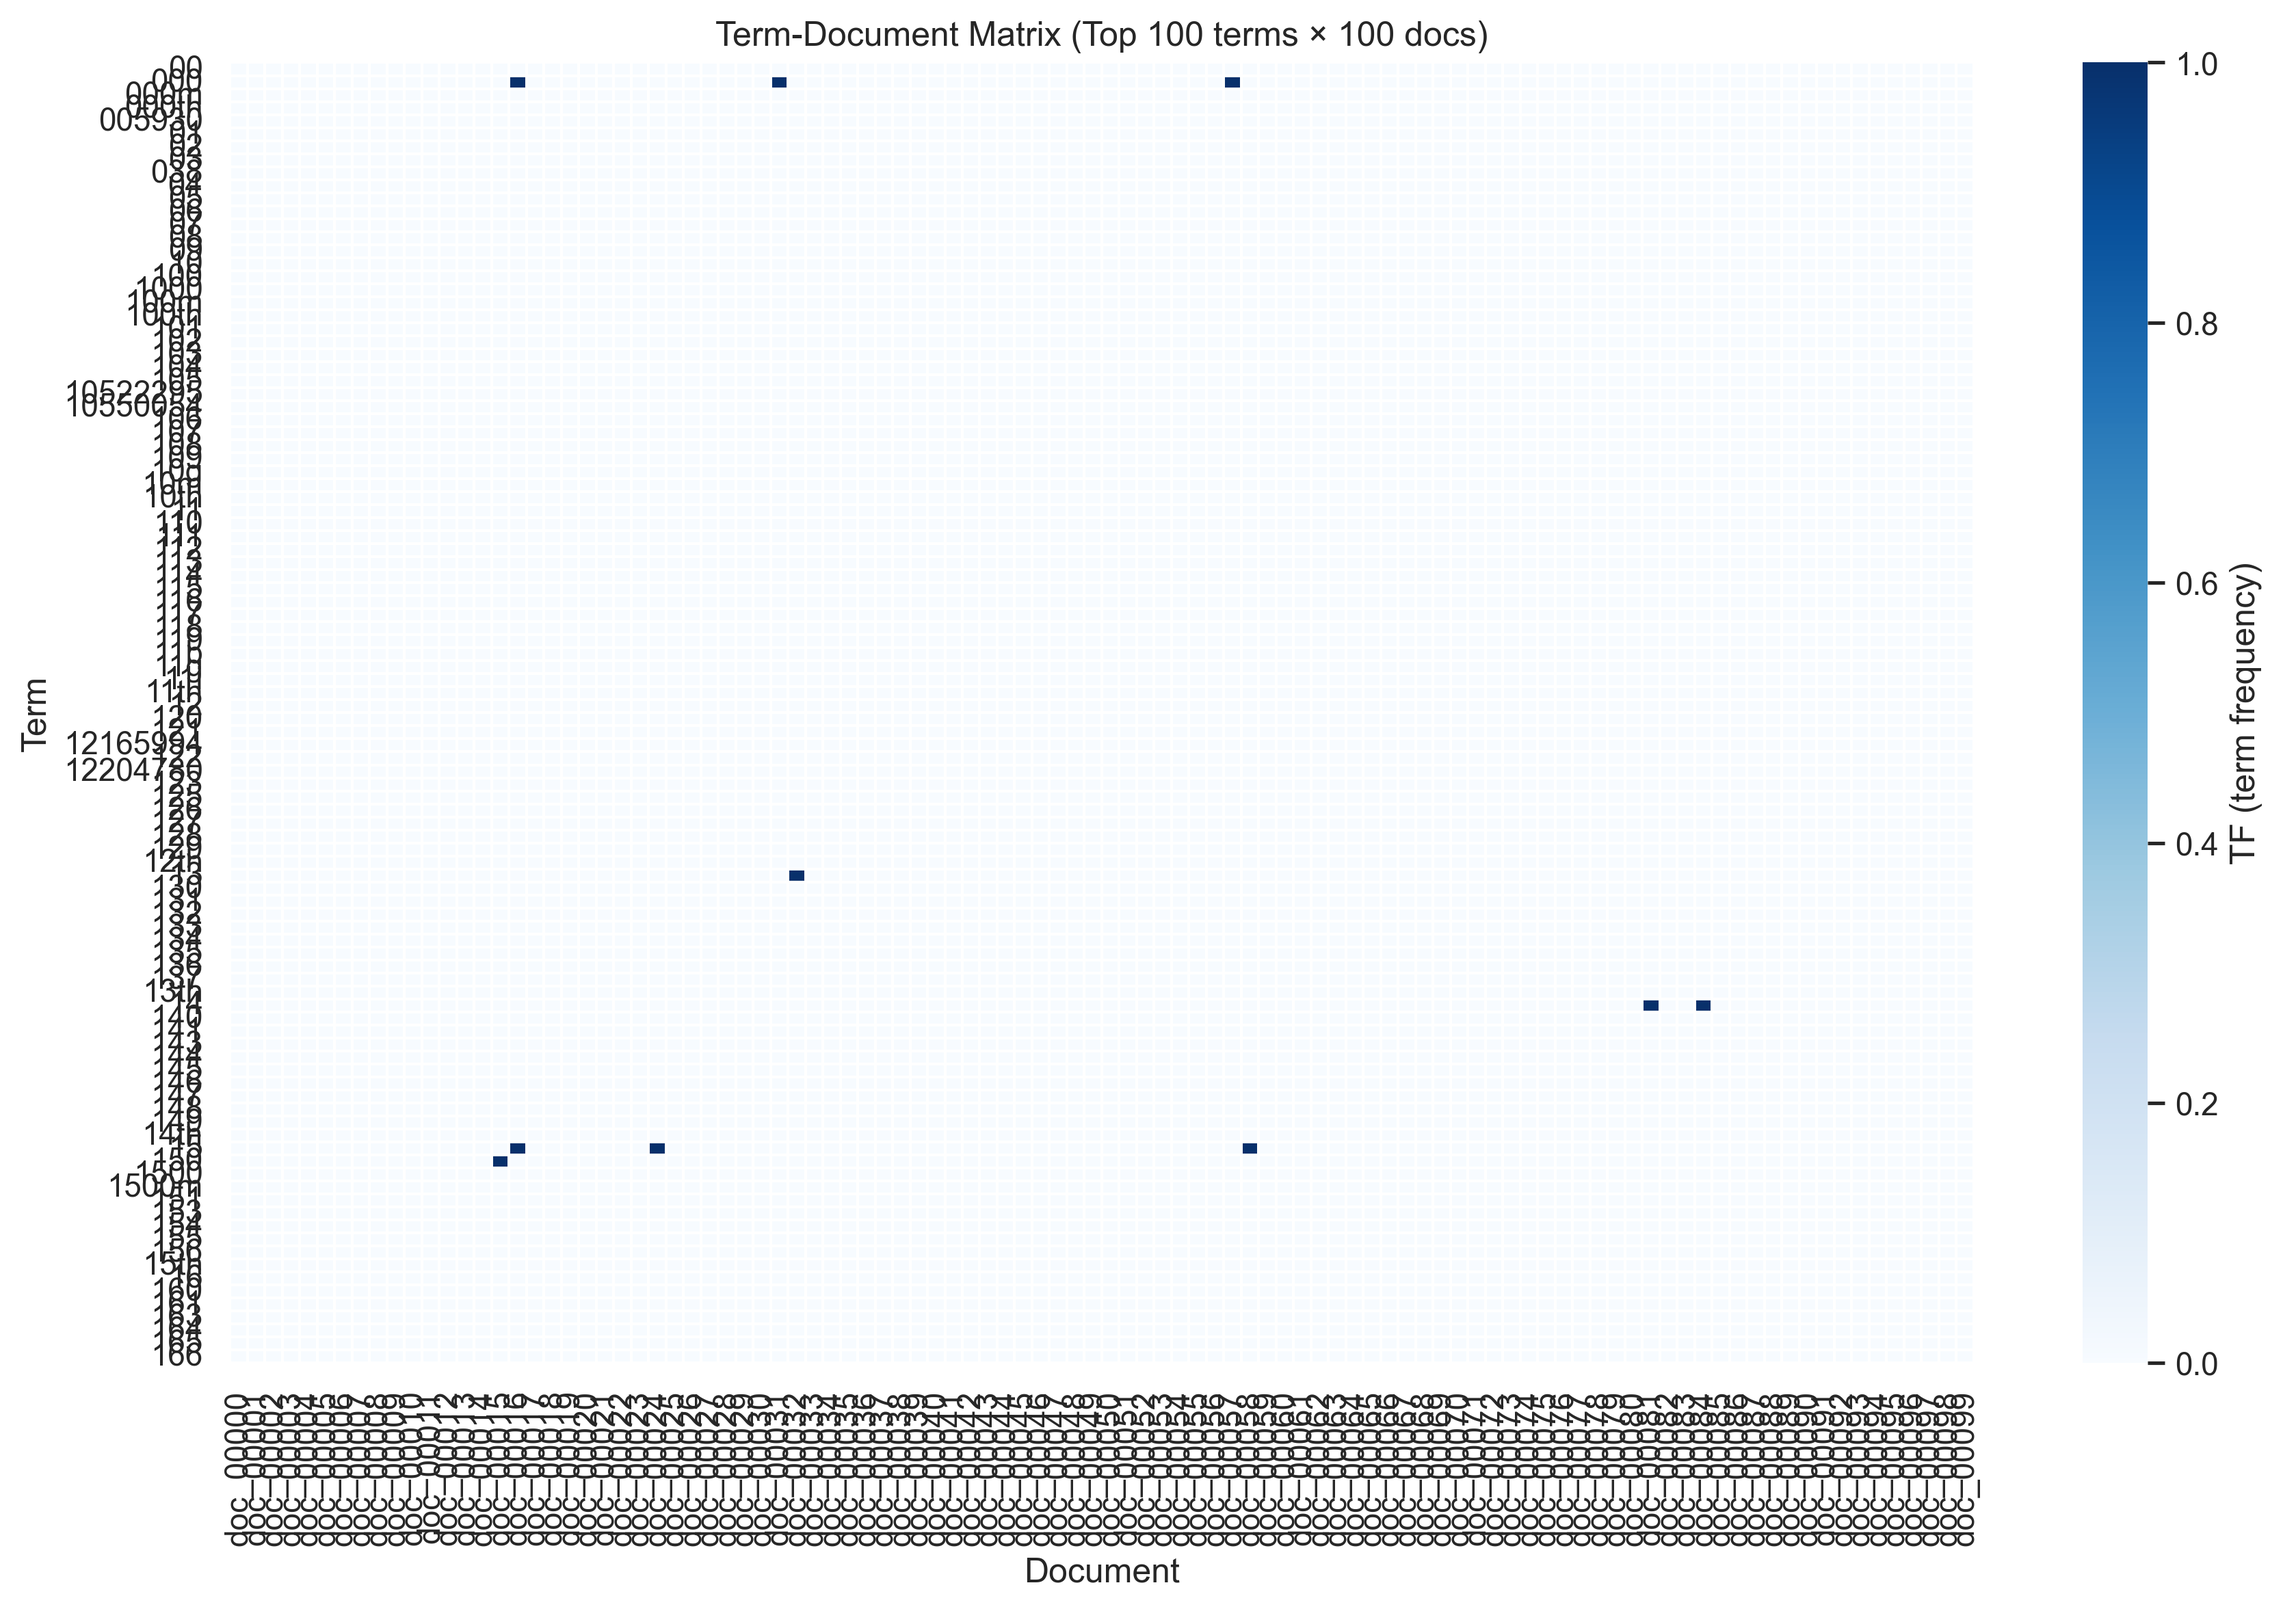
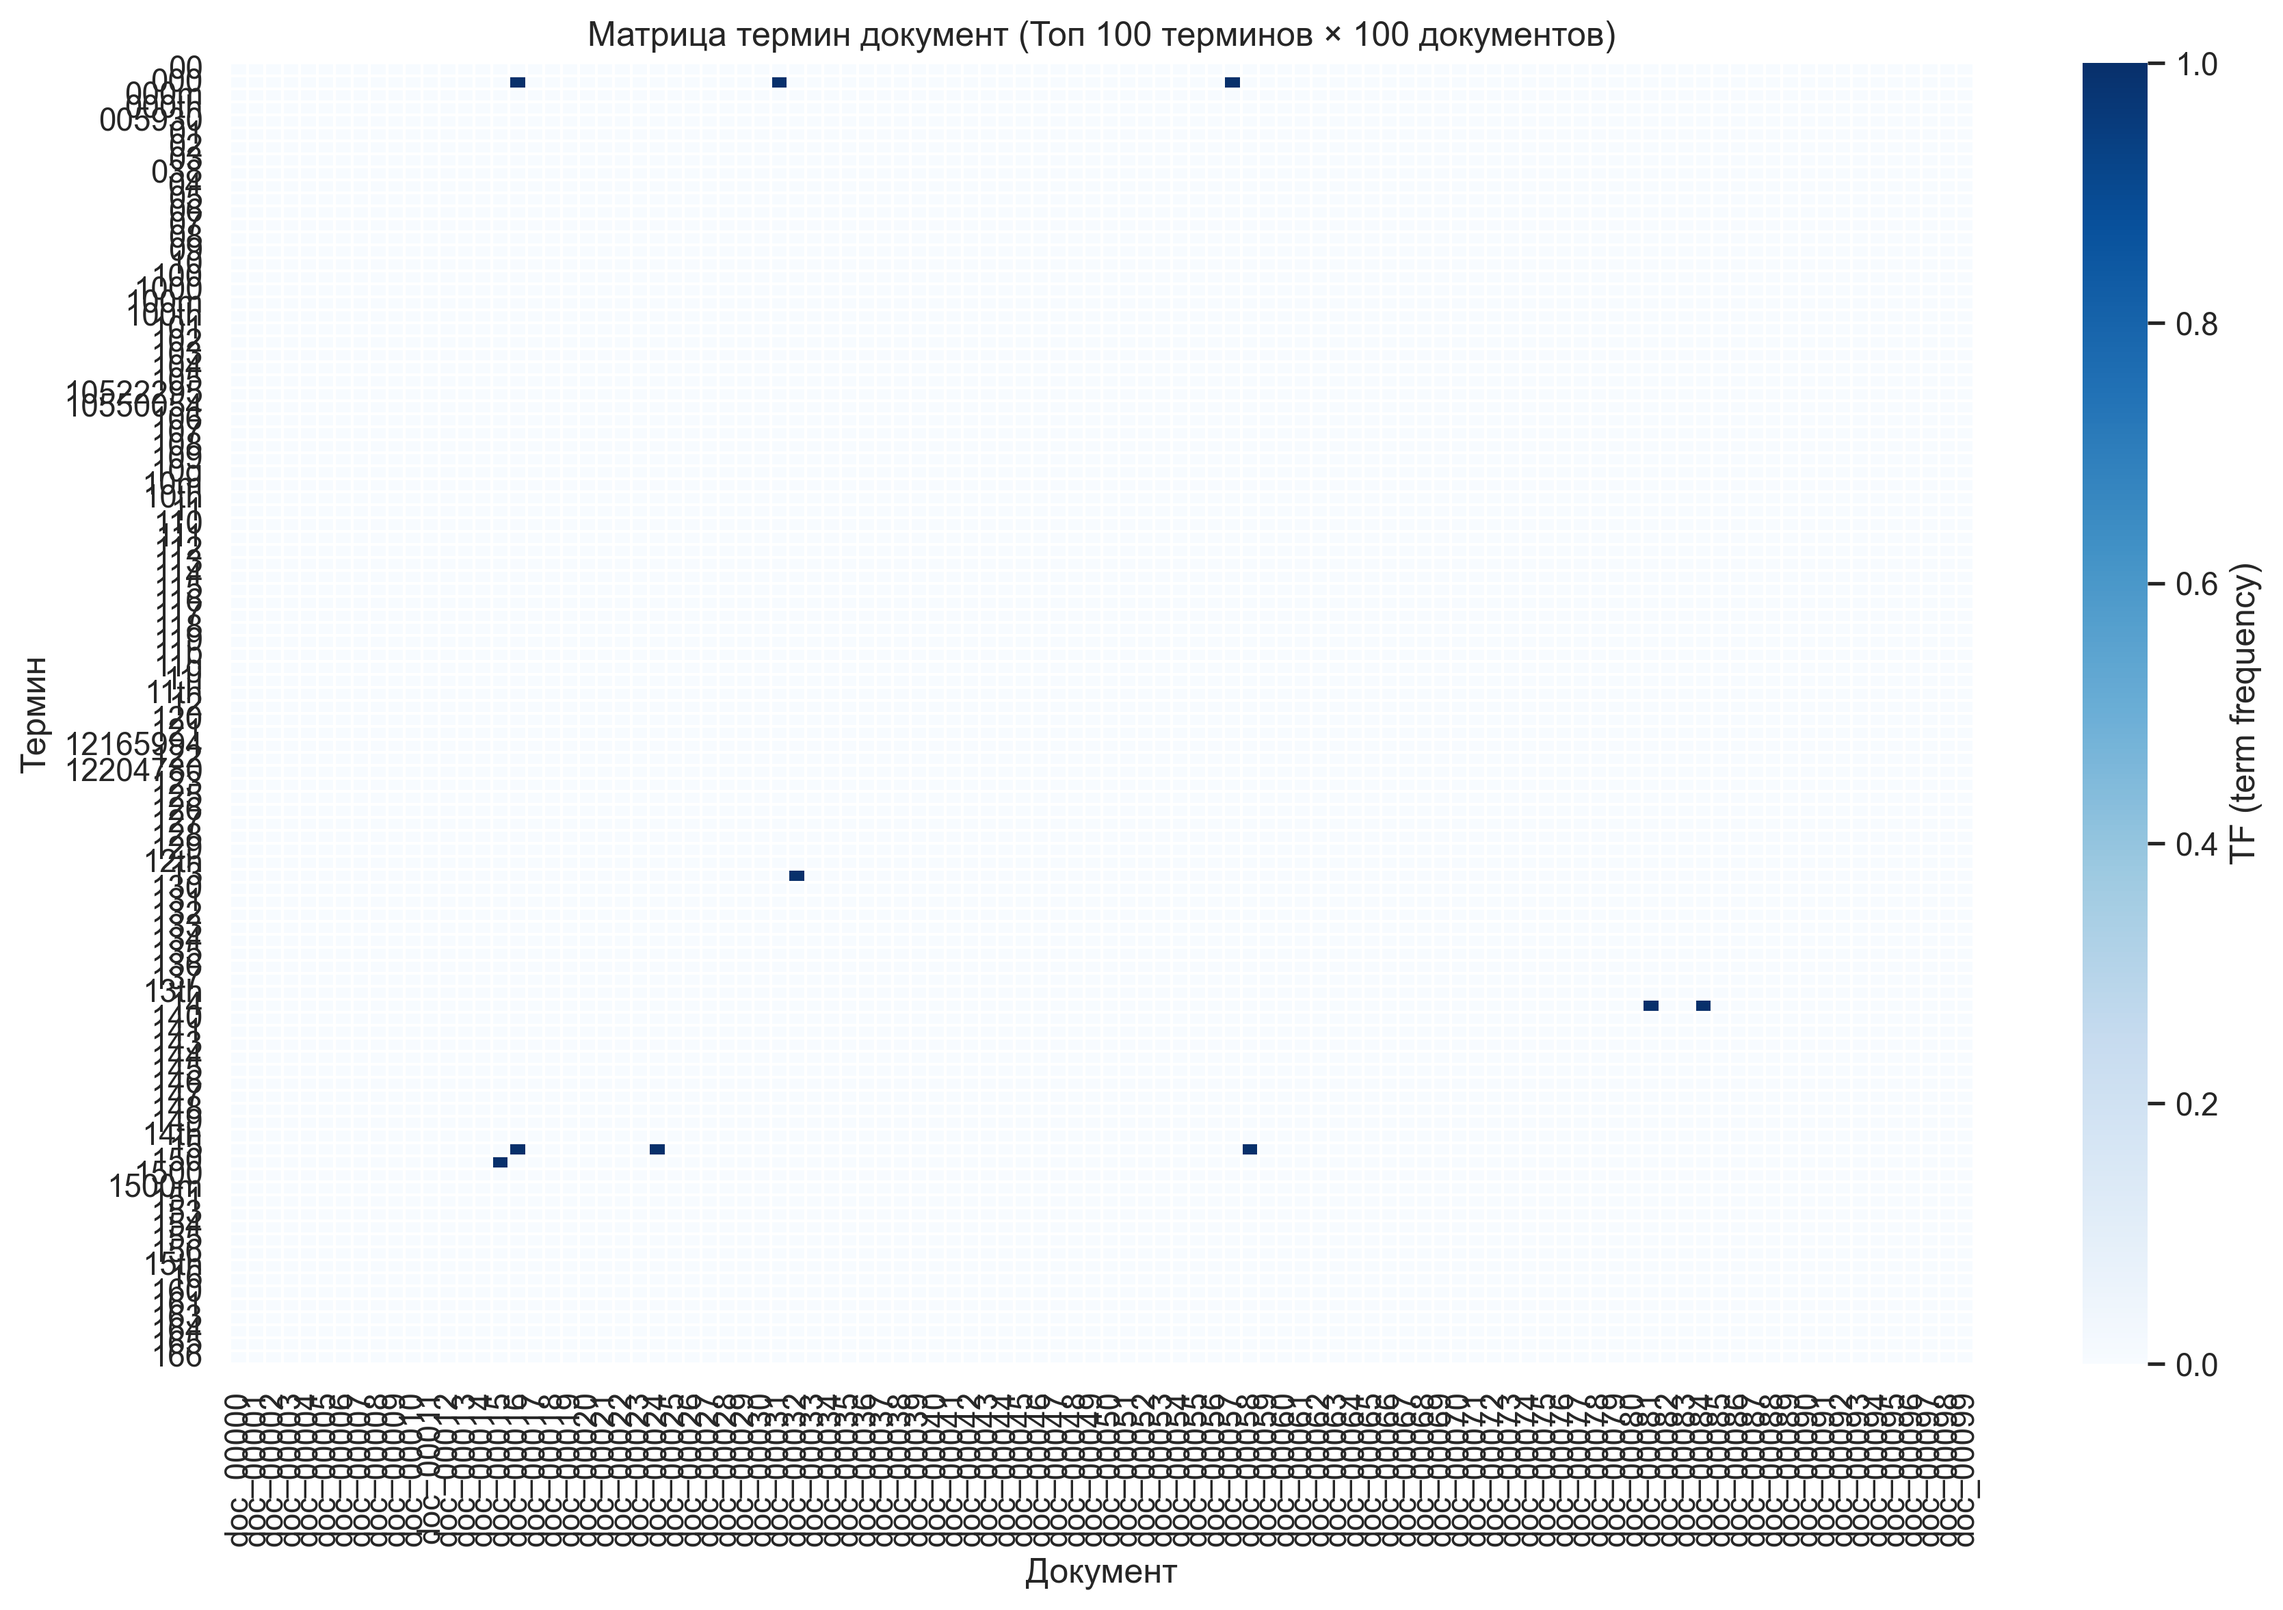
update

diff --git a/projects/ma-yamkin/lab2/source/draw_matrix.py b/projects/ma-yamkin/lab2/source/draw_matrix.py
@@ -19,7 +19,7 @@ def visualize_term_document_matrix(td_matrix, term_to_index, output_path, max_te
     plt.figure(figsize=figsize)
     sns.set_theme(style="whitegrid")
     
-    ax = sns.heatmap(
+    sns.heatmap(
         submatrix,
         annot=False,
         cmap="Blues",
@@ -29,9 +29,9 @@ def visualize_term_document_matrix(td_matrix, term_to_index, output_path, max_te
         yticklabels=terms
     )
     
-    plt.xlabel("Document")
-    plt.ylabel("Term")
-    plt.title(f"Term-Document Matrix (Top {terms_subset} terms × {docs_subset} docs)")
+    plt.xlabel("Документ")
+    plt.ylabel("Термин")
+    plt.title(f"Матрица термин документ (Топ {terms_subset} терминов × {docs_subset} документов)")
     plt.xticks(rotation=90, ha='center')
     plt.yticks(rotation=0)
     plt.tight_layout()
